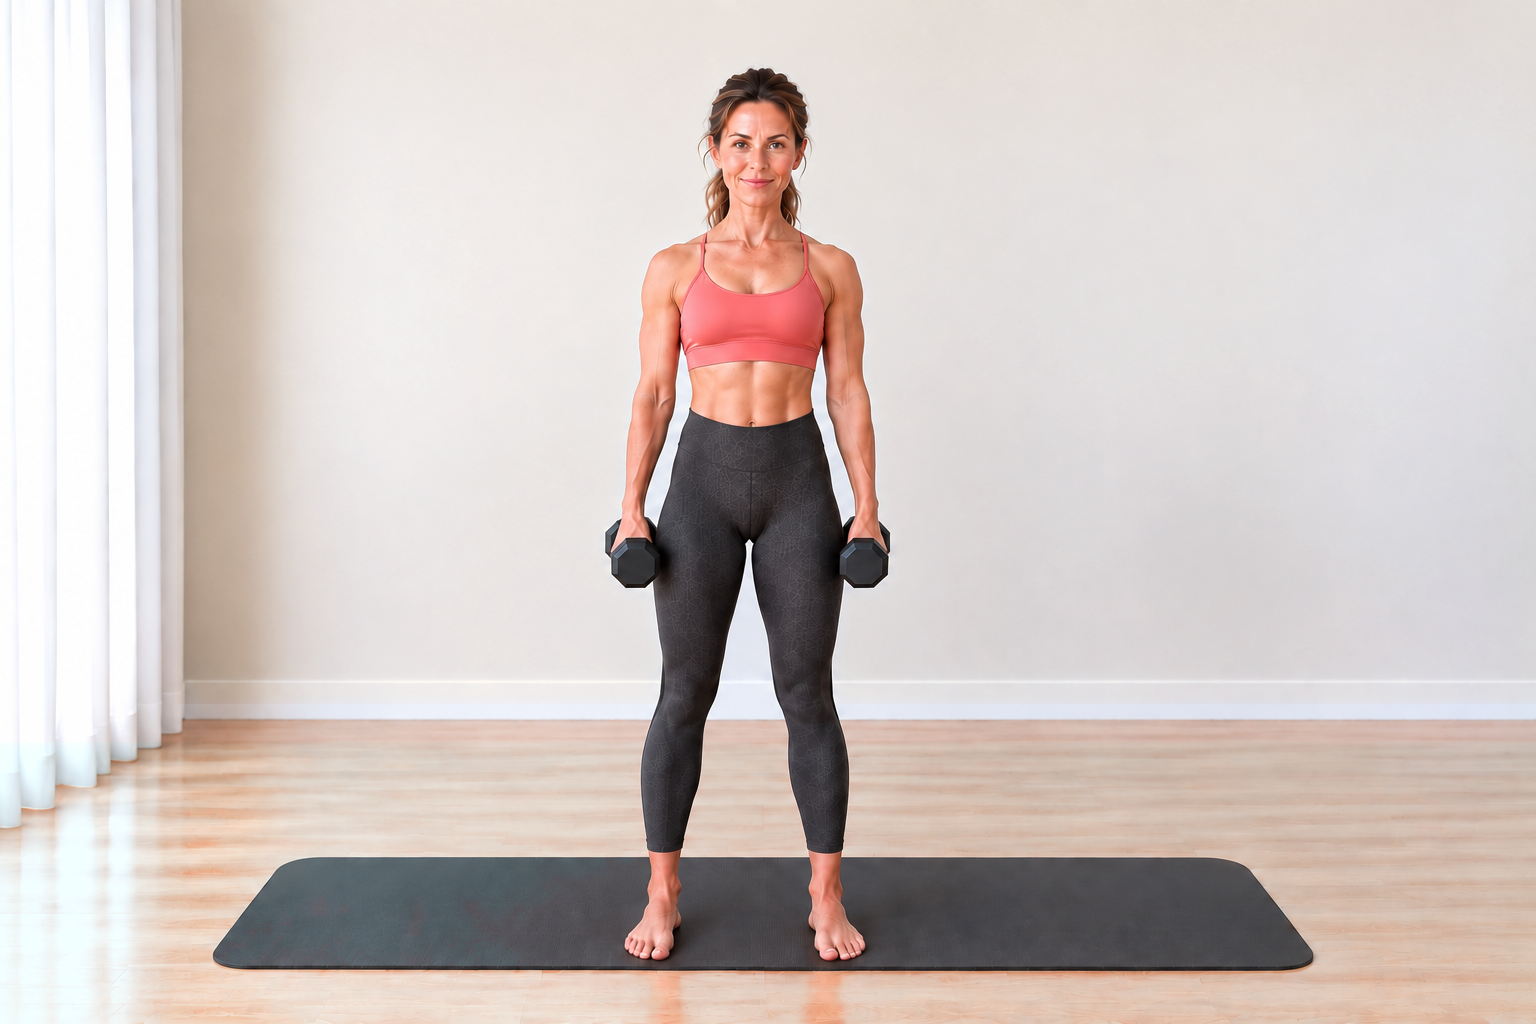
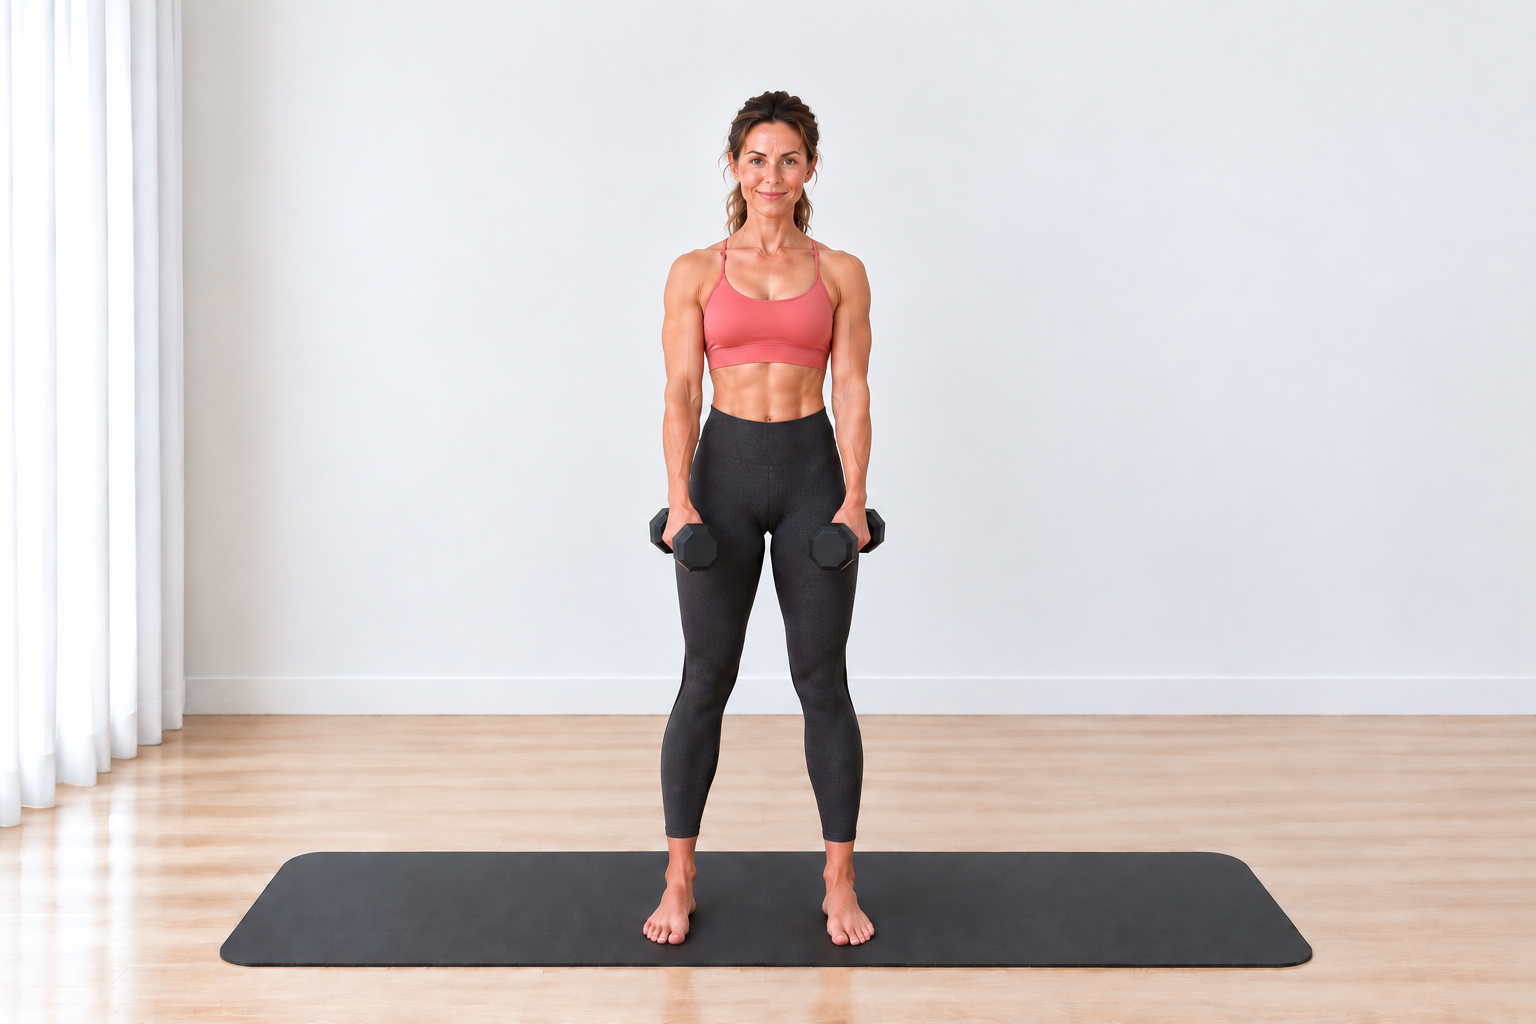
a

Changed region(s): [[0.0938, 0.0, 1.0, 1.0], [0.0625, 0.7188, 0.125, 0.75]]

diff --git a/style.css b/style.css
@@ -4342,12 +4342,12 @@ body.dark .finishExperience .moodRow button.selected{color:#fff}
   .finishCompletionProgress{height:6px;margin:7px 18px 0}
   .finishHero{height:clamp(310px,40.5vh,342px)}
   .finishHeroImage{
-    object-position:50% 52%;
-    transform:scale(1.18);
+    object-position:12% 52%;
+    transform:scale(1.27);
     transform-origin:50% 50%;
   }
-  .finishHeroCopy{left:22px;bottom:7px;width:72%}
-  .finishHeroCopy p{margin-bottom:5px;font-size:17px}
+  .finishHeroCopy{left:22px;bottom:52px;width:72%}
+  .finishHeroCopy p{margin-bottom:21px;font-size:17px}
   .finishHeroCopy h2{font-size:48px}
   .finishContent{padding:0 18px 12px}
   .finishDayMeta{margin-bottom:6px;font-size:.75rem}
